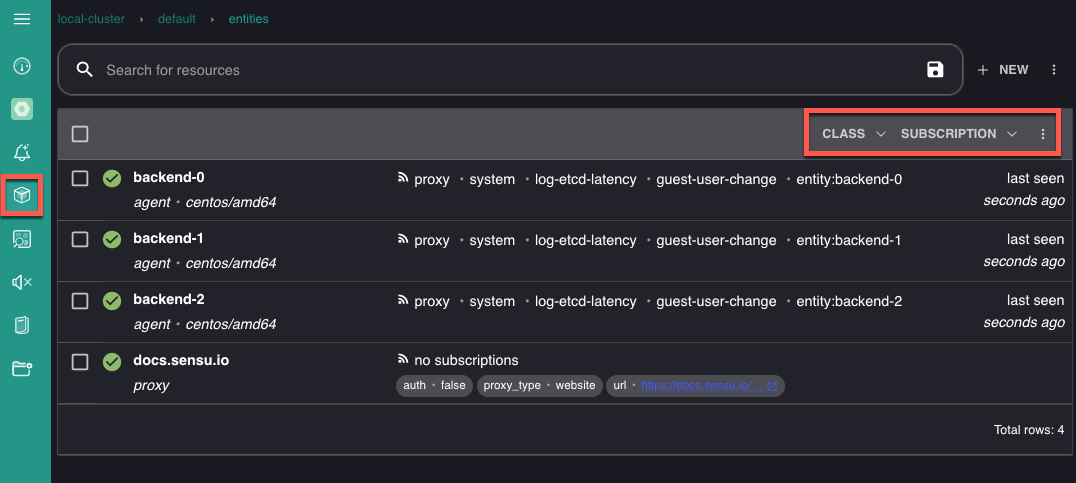
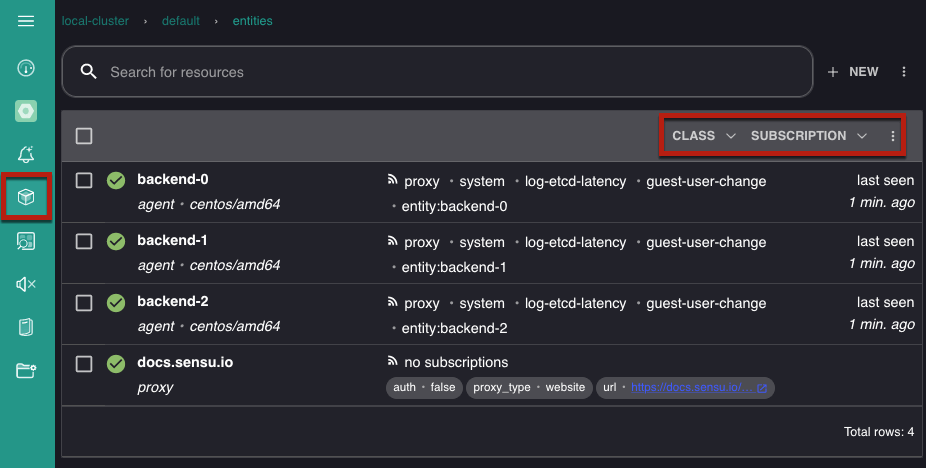
Improve contrast for web UI images with red callouts

Changed region(s): [[0.0, 0.0, 0.9978, 1.0], [0.3629, 0.688, 0.8467, 0.8675]]

diff --git a/content/sensu-go/6.9/web-ui/view-manage-resources.md b/content/sensu-go/6.9/web-ui/view-manage-resources.md
@@ -46,9 +46,9 @@ The menu bar at the top of the events list includes several other options for fi
 
 {{< figure src="/images/go/view_manage_resources/events_page_filter_sort_670.png" alt="Filter and sort events" link="/images/go/view_manage_resources/events_page_filter_sort_670.png" target="_blank" >}}
 
-Click the check boxes to select one or more events and resolve, silence, or delete them directly from the Events page:
+Click the check boxes to select one or more events and resolve, re-run, silence, or delete them directly from the Events page:
 
-{{< figure src="/images/go/view_manage_resources/group_events_670.png" alt="Select one or more events on the Events page" link="/images/go/view_manage_resources/group_events_670.png" target="_blank" >}}
+{{< figure src="/images/go/view_manage_resources/group_events_690.png" alt="Select one or more events on the Events page" link="/images/go/view_manage_resources/group_events_690.png" target="_blank" >}}
 
 Click an event name to view details like status, output, number of occurrences, labels and annotations, related check configuration (if the event was produced by a service check), and entity summary, as well as a timeline that displays the event's last 20 statuses at a glance:
 
@@ -61,9 +61,9 @@ The top row of the entities list includes options for filtering and sorting enti
 
 {{< figure src="/images/go/view_manage_resources/entities_page_filter_sort_680.png" alt="Filter and sort entities" link="/images/go/view_manage_resources/entities_page_filter_sort_680.png" target="_blank" >}}
 
-Click the check boxes to select one or more entities and delete them directly from the Entities page:
+Click the check boxes to select one or more entities and silence or delete them directly from the Entities page:
 
-{{< figure src="/images/go/view_manage_resources/group_entities_680.png" alt="Select one or more entities on the Entities page" link="/images/go/view_manage_resources/group_entities_680.png" target="_blank" >}}
+{{< figure src="/images/go/view_manage_resources/group_entities_690.png" alt="Select one or more entities on the Entities page" link="/images/go/view_manage_resources/group_entities_690.png" target="_blank" >}}
 
 Click an entity name to view details about the entity's creator, agent version (for agent entities), subscriptions, labels and annotations, associated events, and properties:
 

diff --git a/content/sensu-go/6.9/observability-pipeline/observe-entities/monitor-external-resources.md b/content/sensu-go/6.9/observability-pipeline/observe-entities/monitor-external-resources.md
@@ -107,7 +107,7 @@ To make sure that the monitoring check is working properly, confirm that Sensu c
 
 2. Confirm that the Entities page lists a proxy entity named `sensu.io`.
 
-    {{< figure src="/images/go/monitor_external_resources/confirm_proxy_entity.png" alt="Confirm the sensu.io proxy entity is listed on the Entities page" link="/images/go/monitor_external_resources/confirm_proxy_entity.png" target="_blank" >}}
+    {{< figure src="/images/go/monitor_external_resources/confirm_proxy_entity_690.png" alt="Confirm the sensu.io proxy entity is listed on the Entities page" link="/images/go/monitor_external_resources/confirm_proxy_entity_690.png" target="_blank" >}}
 
 3. Click the `sensu.io` entity to open the individual entity page.
 
